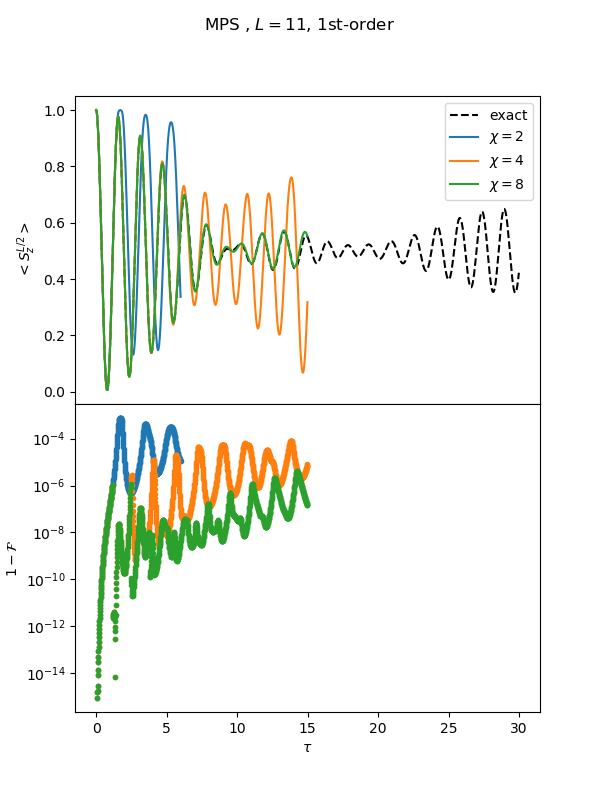
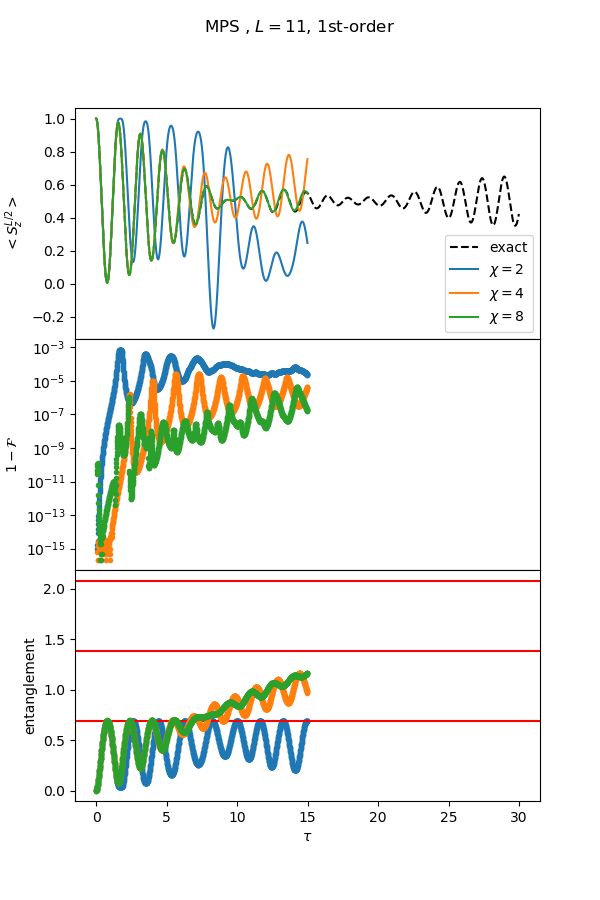
add get_entanglement; increase bond dimension immediate in mps-tebd;

diff --git a/plot_te_mps.py b/plot_te_mps.py
@@ -9,7 +9,7 @@ if __name__ == '__main__':
     Hamiltonian = 'TFI'
 
     plt.close()
-    fig=plt.figure(figsize=(6,8))
+    fig=plt.figure(figsize=(6,9))
 
     ############################################
     dir_path = 'data_te/1d_%s_g%.1f/L%d/' % (Hamiltonian, g, L)
@@ -18,18 +18,12 @@ if __name__ == '__main__':
     filename = 'ed_dt_array.npy'
     exact_dt = np.load(dir_path + filename)
 
-    ax1 = plt.subplot(211)
+    ax1 = plt.subplot(311)
     plt.plot(exact_dt[:], exact_sz[:,L//2],'--k', label='exact')
     plt.setp(ax1.get_xticklabels(), fontsize=6)
     plt.ylabel('$< S_z^{L/2} >$')
 
     for chi in [2, 4, 8]:
-        dir_path = 'data_te/1d_%s_g%.1f/L%d/' % (Hamiltonian, g, L)
-        filename = 'mps_chi%d_%s_sz_array.npy' % (chi, order)
-        path = dir_path + filename
-        mps_sz = np.load(path)
-
-        ############################################
         dir_path = 'data_te/1d_%s_g%.1f/L%d/' % (Hamiltonian, g, L)
 
         filename = 'mps_chi%d_%s_energy.npy' % (chi, order)
@@ -44,26 +38,39 @@ if __name__ == '__main__':
         path = dir_path + filename
         update_error_list = np.load(path)
 
+        filename = 'mps_chi%d_%s_sz_array.npy' % (chi, order)
+        path = dir_path + filename
+        mps_sz = np.load(path)
 
-        ax1 = plt.subplot(211)
+        filename = 'mps_chi%d_%s_ent_array.npy' % (chi, order)
+        path = dir_path + filename
+        ent_array = np.load(path)
+
+        ax1 = plt.subplot(311)
         plt.plot(t_list, mps_sz[:,L//2], '-', label='$\\chi=%d$' % chi)
         plt.setp(ax1.get_xticklabels(), fontsize=6)
 
 
-        ax2 = plt.subplot(212, sharex=ax1)
+        ax2 = plt.subplot(312, sharex=ax1)
         plt.semilogy(t_list, update_error_list,'.', label='$\\chi=%d$' % chi)
         plt.ylabel('$1 - \mathcal{F}$')
+
+        ax3 = plt.subplot(313, sharex=ax1)
+        plt.plot(t_list, ent_array[:,L//2], '.', label='$\\chi=%d$' % chi)
+        plt.ylabel('entanglement')
+        plt.axhline(y=-np.log(1./chi), color='r', linestyle='-', label='bound $\\chi=%d$' % chi)
 
 
 
 
     plt.setp(ax1.get_xticklabels(), visible=False)
+    plt.setp(ax2.get_xticklabels(), visible=False)
     plt.subplots_adjust(hspace=0)
 
     plt.suptitle('MPS ' + ', $L=$' + str(L) + ', %s-order' % order)
     plt.xlabel('$\\tau$')
     # plt.legend(['$\\chi=%.0f$'%chi])
-    plt.subplot(211)
+    plt.subplot(311)
     plt.legend()
     # plt.savefig('figure/finite_L%d_chi%d.png' % (L, chi))
     plt.savefig('figure/time_evolv_%s/mps_L%d_g%.1f_%s.png' % (Hamiltonian, L, g, order))

diff --git a/run_te_qtebd_mps.py b/run_te_qtebd_mps.py
@@ -39,7 +39,7 @@ if __name__ == "__main__":
     ## [TODO] add check whether data already
 
     J = 1.
-    N_iter = 1
+    N_iter = 10
     dt = 0.01
     total_t = 15
     Sz_list = [np.array([[1, 0.], [0., -1.]]) for i in range(L)]
@@ -50,13 +50,14 @@ if __name__ == "__main__":
     E_list = [np.sum(qTEBD.expectation_values(A_list, H_list))]
     Sz_array = np.zeros([int(total_t // dt) + 1, L], dtype=np.complex)
     Sz_array[0, :] = qTEBD.expectation_values_1_site(A_list, Sz_list)
+    ent_array = np.zeros([int(total_t // dt) + 1, L-1], dtype=np.double)
+    ent_array[0, :] = qTEBD.get_entanglement(A_list)
     update_error_list = [0.]
 
     U_list =  qTEBD.make_U(H_list, 1j * dt)
     U_half_list =  qTEBD.make_U(H_list, 0.5j * dt)
 
     exact_steps = int(np.log2(chi))
-    exact_steps = 1
     for idx in range(exact_steps):
         A_list = qTEBD.right_canonicalize(A_list)
         A_list = qTEBD.apply_U_all(A_list,  U_list, 0)
@@ -69,6 +70,7 @@ if __name__ == "__main__":
         current_energy = np.sum(qTEBD.expectation_values(A_list, H_list))
         E_list.append(current_energy)
         Sz_array[1+idx, :] = qTEBD.expectation_values_1_site(A_list, Sz_list)
+        ent_array[1+idx, :] = qTEBD.get_entanglement(A_list)
         t_list.append(t_list[-1]+dt)
 
         print("T=", t_list[-1], " E=", E_list[-1], " Sz=", Sz_array[idx, L//2])
@@ -88,6 +90,7 @@ if __name__ == "__main__":
             current_energy = np.sum(qTEBD.expectation_values(A_list, H_list))
             E_list.append(current_energy)
             Sz_array[idx, :] = qTEBD.expectation_values_1_site(A_list, Sz_list)
+            ent_array[idx, :] = qTEBD.get_entanglement(A_list)
             t_list.append(t_list[-1]+dt)
 
             print("T=", t_list[-1], " E=", E_list[-1], " Sz=", Sz_array[idx, L//2])
@@ -160,6 +163,7 @@ if __name__ == "__main__":
         current_energy = np.sum(qTEBD.expectation_values(A_list, H_list))
         E_list.append(current_energy)
         Sz_array[idx, :] = qTEBD.expectation_values_1_site(A_list, Sz_list)
+        ent_array[idx, :] = qTEBD.get_entanglement(A_list)
         t_list.append(t_list[-1]+dt)
 
         print("T=", t_list[-1], " E=", E_list[-1], " Sz=", Sz_array[idx, L//2])
@@ -183,4 +187,8 @@ if __name__ == "__main__":
     filename = 'mps_chi%d_%s_sz_array.npy' % (chi, order)
     path = dir_path + filename
     np.save(path, Sz_array)
+
+    filename = 'mps_chi%d_%s_ent_array.npy' % (chi, order)
+    path = dir_path + filename
+    np.save(path, ent_array)
 

diff --git a/qTEBD.py b/qTEBD.py
@@ -444,6 +444,40 @@ def left_canonicalize(A_list):
 
     return A_list
 
+def get_entanglement(A_list):
+    '''
+    Goal:
+        Compute the bibpartite entanglement at each cut.
+    Input:
+        mps in left canonical form
+    Output:
+        list of bipartite entanglement [(0,1...), (01,2...), (012,...)]
+    '''
+    L = len(A_list)
+    copy_A_list = [A.copy() for A in A_list]
+    ent_list = [None] * (L-1)
+    for i in range(L-1, 0, -1):
+        d1, chi1, chi2 = copy_A_list[i].shape
+        X, Y, Z = np.linalg.svd(np.reshape(np.transpose(copy_A_list[i], [1, 0, 2]), [chi1, d1 * chi2]),
+                                full_matrices=0)
+
+        chi1 = np.sum(Y>10.**(-15))
+
+        arg_sorted_idx = (np.argsort(Y)[::-1])[:chi1]
+        Y = Y[arg_sorted_idx]
+        X = X[: ,arg_sorted_idx]
+        Z = Z[arg_sorted_idx, :]
+
+        copy_A_list[i]   = np.transpose(Z.reshape([chi1, d1, chi2]), [1, 0, 2])
+        R = np.dot(X, np.diag(Y))
+        new_A = np.tensordot(copy_A_list[i-1], R, axes=([2], [0]))  #[p, 1l, (1r)] [(2l), 2r]
+        copy_A_list[i-1] = new_A
+
+        bi_ent = -(Y**2).dot(np.log(Y**2))
+        ent_list[i-1] = bi_ent
+
+    return ent_list
+
 def apply_U_all(A_list, U_list, cache=False):
     '''
     if cache is True, we will return a list_A_list,
